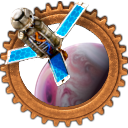
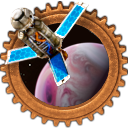
fix achivement image masks

diff --git a/helper_scripts/lib/achivement_icon_generator.py b/helper_scripts/lib/achivement_icon_generator.py
@@ -6,7 +6,8 @@ size = 128, 128
 
 background = Image.open("visit-planet-background.png")
 foreground = Image.open("visit-planet-overlay.png")
-alpha = Image.open("visit-planet-achievement-frame-mask.png").convert('RGBA')
+alpha = Image.open("visit-planet-achievement-frame-alpha.png")
+mask = Image.open("visit-planet-achievement-frame-mask.png")
 
 def generate_achivement_icon(source):
     path = os.path.abspath(source)
@@ -18,7 +19,8 @@ def generate_achivement_icon(source):
             im = Image.open(path).resize(size)
             im = ImageChops.offset(im, 25, 33)#.paste(alpha, mask=alpha)
 
-            back = Image.composite(background,im, alpha)
+            im = Image.composite(mask,im, alpha)
+            back = Image.alpha_composite(background,im)
             Image.alpha_composite(back,foreground).save(outfile, "PNG")
         except IOError:
             print("cannot create achivement icon for for '%s'" % path)
